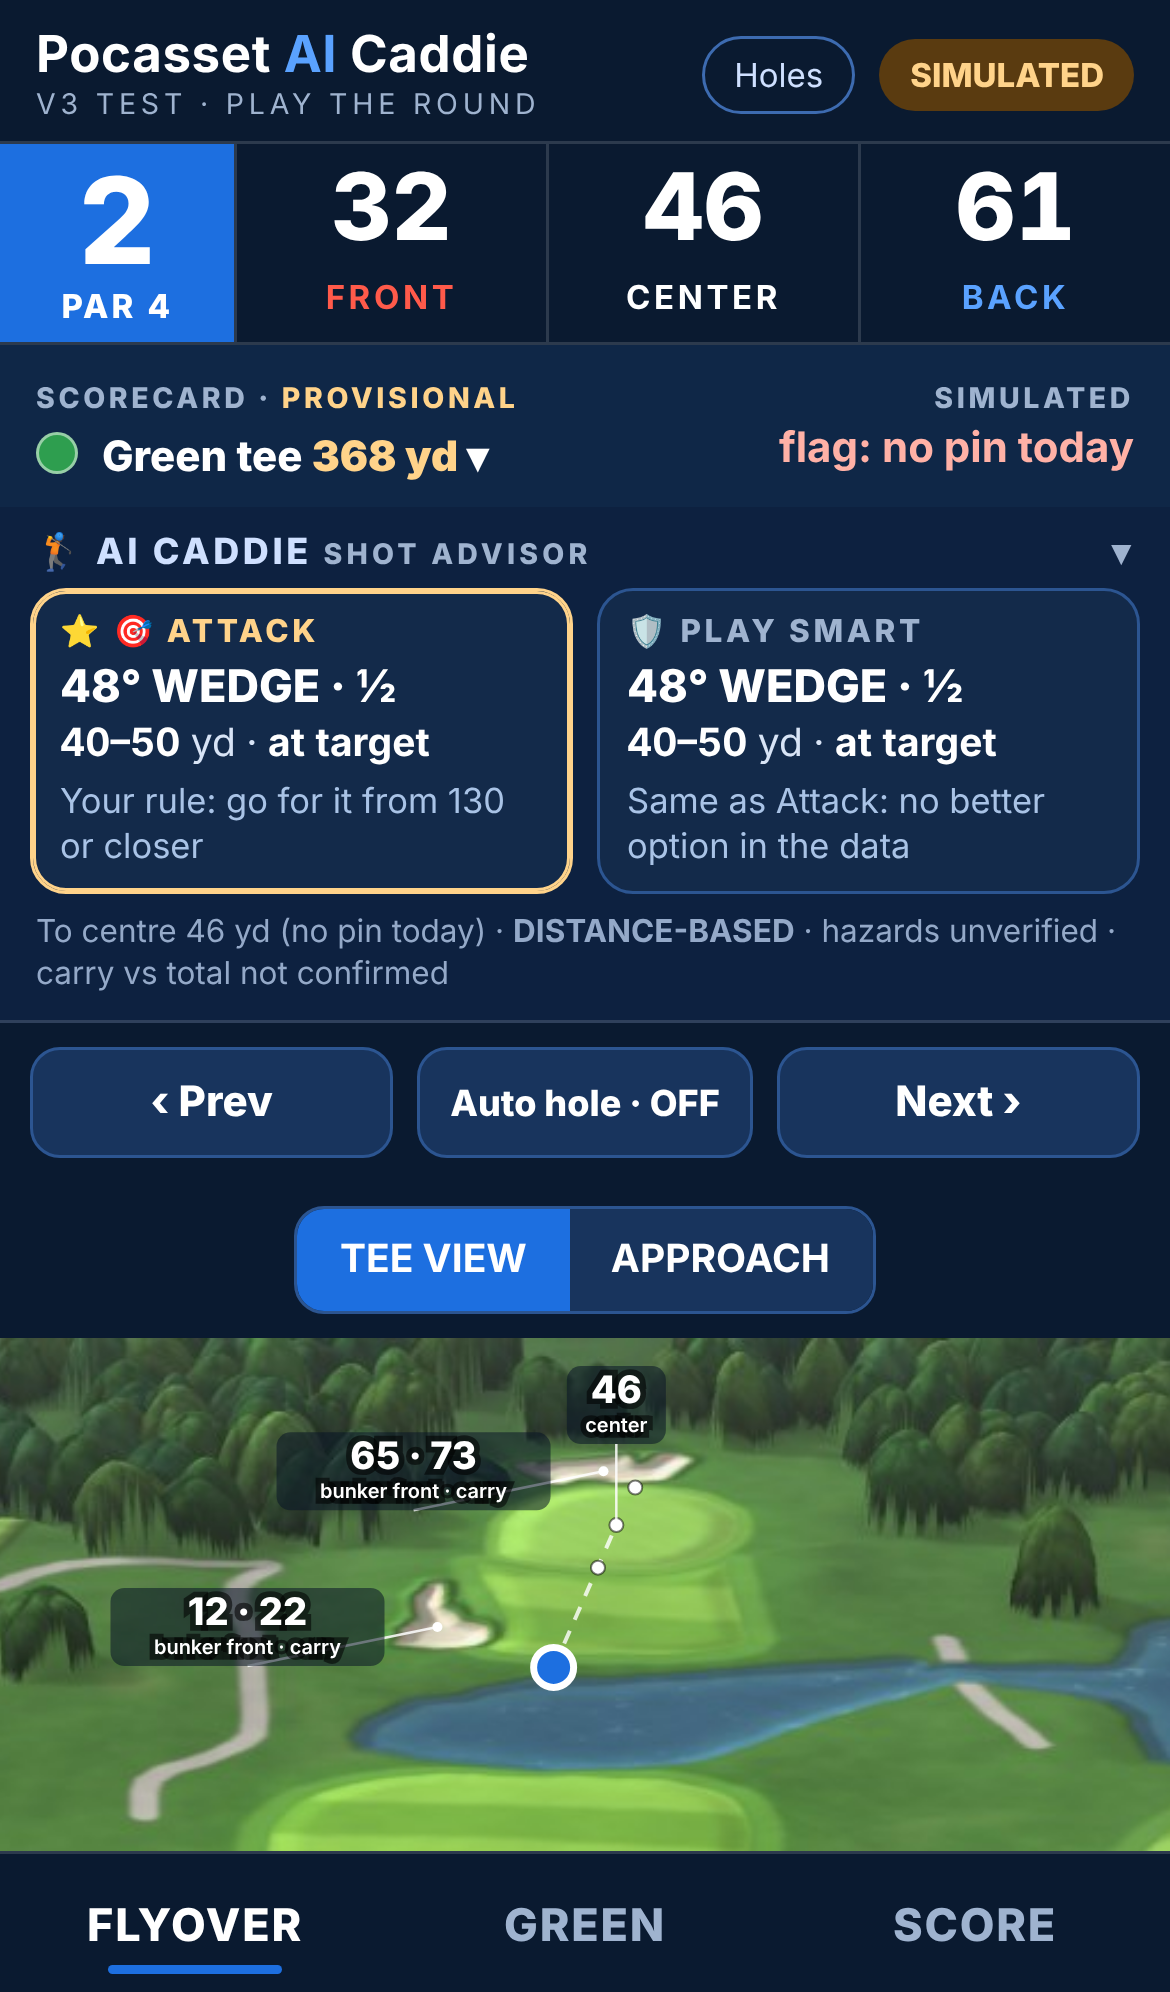
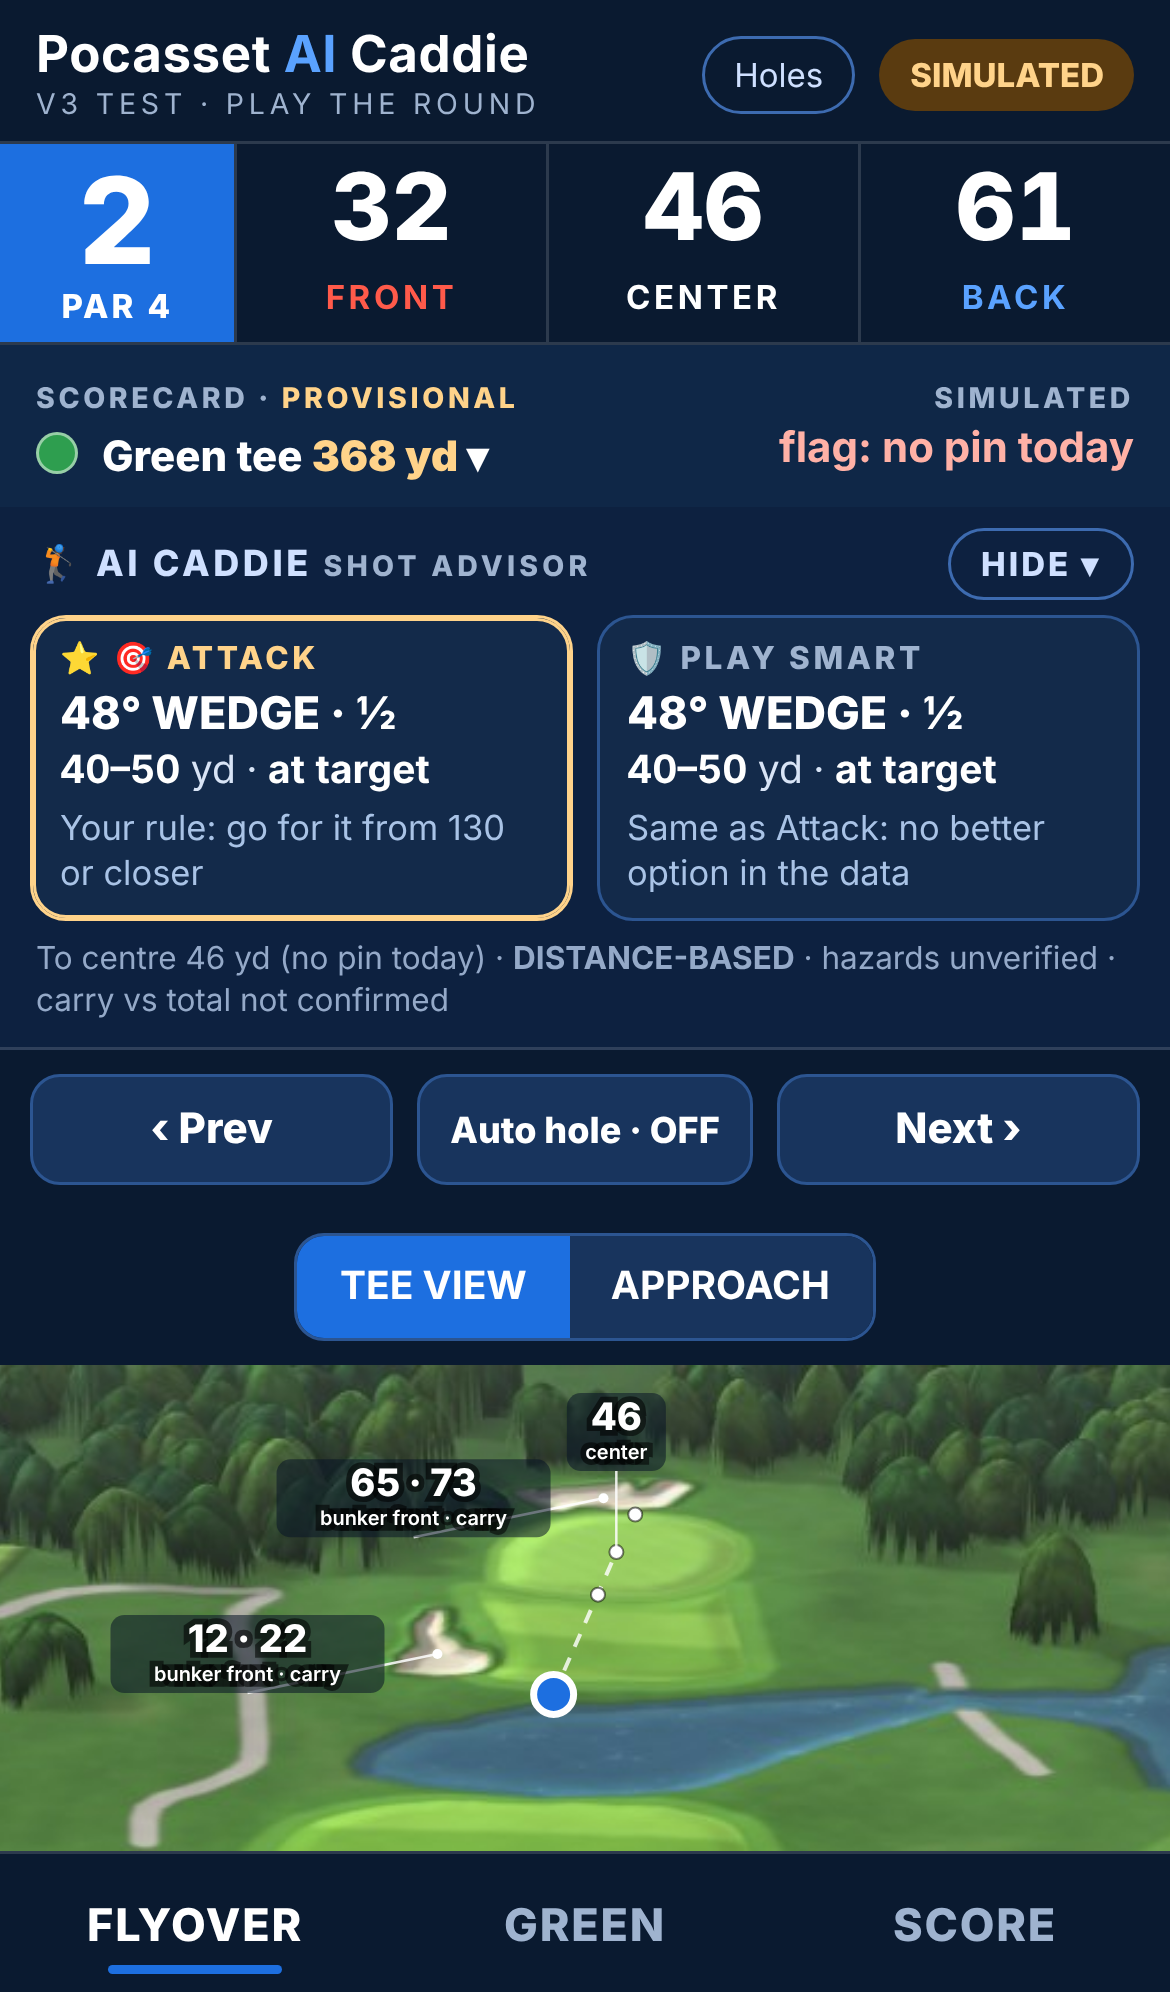
v5.5.2-advisor-show-button: suggestion hidden until SHOW is tapped (Hole 2)
Claude-Session: https://claude.ai/code/session_01NaLen3KhHSLyXNsF12QrQB

Changed region(s): [[0.0, 0.249, 1.0, 0.9337]]

diff --git a/prototype/play/index.html b/prototype/play/index.html
@@ -112,7 +112,7 @@ main{min-height:calc(100svh - 260px)}
 /* AI Caddie Shot Advisor (v5.5.0, Hole 2 test) */
 .adv{background:#0d2140;border-bottom:1px solid var(--line);padding:0 10px 7px}
 .advh{display:flex;align-items:center;gap:8px;width:100%;background:none;border:0;padding:7px 2px 5px;text-align:left;font-size:12px;font-weight:800;letter-spacing:1.2px;color:#cfe0ff}
-.advh small{font-size:9.5px;color:#9fb3cf;letter-spacing:1.4px}.advh .sum{flex:1;text-align:right;font-size:12px;letter-spacing:.4px;color:#fff;white-space:nowrap;overflow:hidden;text-overflow:ellipsis}.advh .chev{color:#9fb3cf}
+.advh small{font-size:9.5px;color:#9fb3cf;letter-spacing:1.4px}.advh .sum{flex:1;text-align:right;font-size:12px;letter-spacing:.4px;color:#fff;white-space:nowrap;overflow:hidden;text-overflow:ellipsis}.advh .chev{color:#cfe0ff;font-size:11px;letter-spacing:1px;border:1px solid #3d6bb0;border-radius:999px;padding:4px 10px;white-space:nowrap}
 .advgrid{display:grid;grid-template-columns:1fr 1fr;gap:8px}
 .advc{background:#132a4a;border:1px solid #2c5591;border-radius:12px;padding:7px 9px;min-width:0}
 .advc.star{border-color:var(--amber);box-shadow:inset 0 0 0 1px var(--amber)}
@@ -389,7 +389,7 @@ function renderFly(){
 /* ---------- AI Caddie Shot Advisor (v5.5.0; holes in ADVISOR_CONFIG.holes only). Display only: reads the header's
    V2.3.1 yardage and the existing hazard calculation; changes nothing they compute. Target = today's pin when it is
    typed today or from a CURRENT pin sheet and placed without error; otherwise the green centre. */
-var ADV=store.get('advisor')||{};if(typeof ADV.on!=='boolean')ADV.on=true;if(typeof ADV.open!=='boolean')ADV.open=true;
+var ADV=store.get('advisor')||{};if(typeof ADV.on!=='boolean')ADV.on=true;if(ADV.v!==2){ADV.open=false;ADV.v=2}   // v5.5.2: suggestion hidden until the golfer taps SHOW (owner)
 function saveAdv(){store.set('advisor',ADV)}
 function advCard(c,k,star){var lbl=k==='attack'?'🎯 ATTACK':'🛡 PLAY SMART',rem=c.past?'~'+c.remaining+' past':c.remaining<3?'at target':'~'+c.remaining+' left';
   return '<div class="advc'+(star?' star':'')+'" data-k="'+k+'"><div class="advk">'+(star?'⭐ ':'')+lbl+'</div><div class="advclub">'+esc(c.club.toUpperCase())+' · '+c.swingText+'</div>'+
@@ -397,17 +397,15 @@ function advCard(c,k,star){var lbl=k==='attack'?'🎯 ATTACK':'🛡 PLAY SMAR
 function renderAdvisor(n,hd,r){
   var el=$('adv'),cfg=window.ADVISOR_CONFIG,show=ADV.on&&S.tab==='fly'&&!!cfg&&cfg.holes.indexOf(n)>=0;
   el.hidden=!show;S.adv=null;if(!show)return;
-  $('advToggle').setAttribute('aria-expanded',String(ADV.open));$('advChev').textContent=ADV.open?'▾':'▸';$('advBody').hidden=!ADV.open;
-  if(!hd||!S.me||!r||!r.onCourse){$('advSum').textContent='';$('advBody').innerHTML='<p class="advmsg">'+(S.offCourse?'Away from the course: no recommendation.':'Start GPS, or use SIMULATE / move me, for a recommendation.')+'</p>';return}
+  $('advToggle').setAttribute('aria-expanded',String(ADV.open));$('advChev').textContent=ADV.open?'HIDE ▾':'SHOW ▸';$('advBody').hidden=!ADV.open;$('advSum').textContent='';
+  if(!hd||!S.me||!r||!r.onCourse){$('advBody').innerHTML='<p class="advmsg">'+(S.offCourse?'Away from the course: no recommendation.':'Start GPS, or use SIMULATE / move me, for a recommendation.')+'</p>';return}
   var pl=pins.placed(n),st=pl.src==='sheet'?sheetStatus():null,pinOK=(pl.src==='today'||(pl.src==='sheet'&&st==='current'))&&!!pl.ll&&!(pl.res&&pl.res.err)&&r.flag!=null;
   var why=pinOK?'':pl.src==='sheet'&&st!=='current'?' (pin sheet '+(st==='expired'?'expired':'future-dated')+')':' (no pin today)';
   var me=meUV(hd),tuv=pinOK?hd.hole.frame.toUV(pl.ll[0],pl.ll[1]):hd.hole.centerUV;
   var a=PAdvisor.recommend({hole:hd.hole,me:me,targetUV:tuv,targetYd:pinOK?r.flag:r.center,targetKind:pinOK?'flag':'centre',centreYd:r.center,par:PARS[n-1],
     teeUVs:hd.tees.map(function(t){return t.uv}),cfg:cfg,posText:PFly.posText,strategy:(cfg.hole_strategy||{})[n]||null});
   S.adv=a;var tgt=pinOK?'To flag '+r.flag+' yd':'To centre '+r.center+' yd'+why;
-  if(a.mode==='green'){$('advSum').textContent='';$('advBody').innerHTML='<p class="advmsg">'+esc(a.message)+' '+esc(tgt)+'.</p>';return}
-  var sp=a.star==='smart'?a.smart:a.attack;
-  $('advSum').textContent=ADV.open?'':'⭐ '+(a.star==='smart'?'PLAY SMART':'ATTACK')+' · '+sp.club.toUpperCase()+' '+sp.swingText;
+  if(a.mode==='green'){$('advBody').innerHTML='<p class="advmsg">'+esc(a.message)+' '+esc(tgt)+'.</p>';return}
   $('advBody').innerHTML='<div class="advgrid">'+advCard(a.attack,'attack',a.star==='attack')+advCard(a.smart,'smart',a.star==='smart')+'</div>'+
     '<p class="advfine">'+esc(tgt)+' · <b>'+(a.basis==='hazard-checked'?'HAZARD-CHECKED':'DISTANCE-BASED')+'</b>'+(a.hazardCount&&!a.hazardsVerified?' · hazards unverified':'')+' · carry vs total not confirmed</p>';
 }

diff --git a/prototype/play_src/index.html b/prototype/play_src/index.html
@@ -112,7 +112,7 @@ main{min-height:calc(100svh - 260px)}
 /* AI Caddie Shot Advisor (v5.5.0, Hole 2 test) */
 .adv{background:#0d2140;border-bottom:1px solid var(--line);padding:0 10px 7px}
 .advh{display:flex;align-items:center;gap:8px;width:100%;background:none;border:0;padding:7px 2px 5px;text-align:left;font-size:12px;font-weight:800;letter-spacing:1.2px;color:#cfe0ff}
-.advh small{font-size:9.5px;color:#9fb3cf;letter-spacing:1.4px}.advh .sum{flex:1;text-align:right;font-size:12px;letter-spacing:.4px;color:#fff;white-space:nowrap;overflow:hidden;text-overflow:ellipsis}.advh .chev{color:#9fb3cf}
+.advh small{font-size:9.5px;color:#9fb3cf;letter-spacing:1.4px}.advh .sum{flex:1;text-align:right;font-size:12px;letter-spacing:.4px;color:#fff;white-space:nowrap;overflow:hidden;text-overflow:ellipsis}.advh .chev{color:#cfe0ff;font-size:11px;letter-spacing:1px;border:1px solid #3d6bb0;border-radius:999px;padding:4px 10px;white-space:nowrap}
 .advgrid{display:grid;grid-template-columns:1fr 1fr;gap:8px}
 .advc{background:#132a4a;border:1px solid #2c5591;border-radius:12px;padding:7px 9px;min-width:0}
 .advc.star{border-color:var(--amber);box-shadow:inset 0 0 0 1px var(--amber)}
@@ -389,7 +389,7 @@ function renderFly(){
 /* ---------- AI Caddie Shot Advisor (v5.5.0; holes in ADVISOR_CONFIG.holes only). Display only: reads the header's
    V2.3.1 yardage and the existing hazard calculation; changes nothing they compute. Target = today's pin when it is
    typed today or from a CURRENT pin sheet and placed without error; otherwise the green centre. */
-var ADV=store.get('advisor')||{};if(typeof ADV.on!=='boolean')ADV.on=true;if(typeof ADV.open!=='boolean')ADV.open=true;
+var ADV=store.get('advisor')||{};if(typeof ADV.on!=='boolean')ADV.on=true;if(ADV.v!==2){ADV.open=false;ADV.v=2}   // v5.5.2: suggestion hidden until the golfer taps SHOW (owner)
 function saveAdv(){store.set('advisor',ADV)}
 function advCard(c,k,star){var lbl=k==='attack'?'🎯 ATTACK':'🛡 PLAY SMART',rem=c.past?'~'+c.remaining+' past':c.remaining<3?'at target':'~'+c.remaining+' left';
   return '<div class="advc'+(star?' star':'')+'" data-k="'+k+'"><div class="advk">'+(star?'⭐ ':'')+lbl+'</div><div class="advclub">'+esc(c.club.toUpperCase())+' · '+c.swingText+'</div>'+
@@ -397,17 +397,15 @@ function advCard(c,k,star){var lbl=k==='attack'?'🎯 ATTACK':'🛡 PLAY SMAR
 function renderAdvisor(n,hd,r){
   var el=$('adv'),cfg=window.ADVISOR_CONFIG,show=ADV.on&&S.tab==='fly'&&!!cfg&&cfg.holes.indexOf(n)>=0;
   el.hidden=!show;S.adv=null;if(!show)return;
-  $('advToggle').setAttribute('aria-expanded',String(ADV.open));$('advChev').textContent=ADV.open?'▾':'▸';$('advBody').hidden=!ADV.open;
-  if(!hd||!S.me||!r||!r.onCourse){$('advSum').textContent='';$('advBody').innerHTML='<p class="advmsg">'+(S.offCourse?'Away from the course: no recommendation.':'Start GPS, or use SIMULATE / move me, for a recommendation.')+'</p>';return}
+  $('advToggle').setAttribute('aria-expanded',String(ADV.open));$('advChev').textContent=ADV.open?'HIDE ▾':'SHOW ▸';$('advBody').hidden=!ADV.open;$('advSum').textContent='';
+  if(!hd||!S.me||!r||!r.onCourse){$('advBody').innerHTML='<p class="advmsg">'+(S.offCourse?'Away from the course: no recommendation.':'Start GPS, or use SIMULATE / move me, for a recommendation.')+'</p>';return}
   var pl=pins.placed(n),st=pl.src==='sheet'?sheetStatus():null,pinOK=(pl.src==='today'||(pl.src==='sheet'&&st==='current'))&&!!pl.ll&&!(pl.res&&pl.res.err)&&r.flag!=null;
   var why=pinOK?'':pl.src==='sheet'&&st!=='current'?' (pin sheet '+(st==='expired'?'expired':'future-dated')+')':' (no pin today)';
   var me=meUV(hd),tuv=pinOK?hd.hole.frame.toUV(pl.ll[0],pl.ll[1]):hd.hole.centerUV;
   var a=PAdvisor.recommend({hole:hd.hole,me:me,targetUV:tuv,targetYd:pinOK?r.flag:r.center,targetKind:pinOK?'flag':'centre',centreYd:r.center,par:PARS[n-1],
     teeUVs:hd.tees.map(function(t){return t.uv}),cfg:cfg,posText:PFly.posText,strategy:(cfg.hole_strategy||{})[n]||null});
   S.adv=a;var tgt=pinOK?'To flag '+r.flag+' yd':'To centre '+r.center+' yd'+why;
-  if(a.mode==='green'){$('advSum').textContent='';$('advBody').innerHTML='<p class="advmsg">'+esc(a.message)+' '+esc(tgt)+'.</p>';return}
-  var sp=a.star==='smart'?a.smart:a.attack;
-  $('advSum').textContent=ADV.open?'':'⭐ '+(a.star==='smart'?'PLAY SMART':'ATTACK')+' · '+sp.club.toUpperCase()+' '+sp.swingText;
+  if(a.mode==='green'){$('advBody').innerHTML='<p class="advmsg">'+esc(a.message)+' '+esc(tgt)+'.</p>';return}
   $('advBody').innerHTML='<div class="advgrid">'+advCard(a.attack,'attack',a.star==='attack')+advCard(a.smart,'smart',a.star==='smart')+'</div>'+
     '<p class="advfine">'+esc(tgt)+' · <b>'+(a.basis==='hazard-checked'?'HAZARD-CHECKED':'DISTANCE-BASED')+'</b>'+(a.hazardCount&&!a.hazardsVerified?' · hazards unverified':'')+' · carry vs total not confirmed</p>';
 }

diff --git a/tests/test_advisor.js b/tests/test_advisor.js
@@ -20,7 +20,10 @@ const moveMe=(pg,uv)=>pg.evaluate(p=>{const P=__play,S=P.S,hd=P.HD[2];document.g
 (async()=>{
  const b=await chromium.launch();
  const pg=await open(b);
- const g=await readAdv(pg);ok('shown on Hole 2 before a position, with a prompt',g.shown&&/Start GPS/.test(g.msg),g.msg);
+ const g=await readAdv(pg);ok('Hole 2 shows only the AI CADDIE · SHOW button at the start (suggestion hidden)',g.shown&&await pg.locator('#advBody').isHidden()&&(await pg.textContent('#advChev'))==='SHOW ▸');
+ await preset(pg,'Green tee');ok('still hidden after a position is set; no club on screen',await pg.locator('#advBody').isHidden()&&!/DRIVER|HYBRID|IRON|WEDGE/.test(await pg.locator('#adv').innerText()),await pg.locator('#adv').innerText());
+ await pg.click('#advToggle');ok('SHOW reveals the two cards',await pg.locator('.advc[data-k="attack"]').isVisible()&&(await pg.textContent('#advChev'))==='HIDE ▾');
+ await pg.reload();await pg.waitForTimeout(600);await pg.evaluate(()=>__play.goHole(2,true));await pg.waitForTimeout(500);ok('stays shown after reload once turned on',await pg.locator('#advBody').isVisible());
  const U=await pg.evaluate(()=>{const h=__play.HD[2].hole,c=h.centerUV,a=h.alongFromGreen(45);return {w140:h.alongFromGreen(140),w124:h.alongFromGreen(124),w45:a,beyond:[c[0]+(c[0]-h.alongFromGreen(30)[0]),c[1]+(c[1]-h.alongFromGreen(30)[1])]}});
  const RULE=[];const CASES=[
   ['Tee box (Green tee preset)',()=>preset(pg,'Green tee'),{a:'DRIVER · FULL',s:'5-HYBRID · FULL',star:'smart',sNote:/in range for shot 2/}],
@@ -52,7 +55,7 @@ const moveMe=(pg,uv)=>pg.evaluate(p=>{const P=__play,S=P.S,hd=P.HD[2];document.g
  // dogleg-free sanity: remaining after a full shot = header centre − expected distance (±6 yd) at 250 yd out
  await preset(pg,'250 yd out');let r=await readAdv(pg);ok('rule follows the header centre: ⭐ Play Smart beyond 130, Attack at 130 or closer (all positions)',RULE.every(x=>x.c>130?x.star==='smart':x.star==='attack'),RULE);const rem=+r.attack.n.match(/~(\d+) left/)[1];ok('remaining ≈ centre − mid distance',Math.abs((+r.center-165)-rem)<=6,{center:r.center,rem});
  // collapse / expand, and summary line
- await pg.click('#advToggle');r=await readAdv(pg);const sum=await pg.textContent('#advSum');ok('collapses to one line with the ⭐ pick',await pg.locator('#advBody').isHidden()&&/⭐ PLAY SMART · 8-IRON/.test(sum),sum);
+ await pg.click('#advToggle');r=await readAdv(pg);ok('HIDE collapses it again, no club shown',await pg.locator('#advBody').isHidden()&&!/IRON|HYBRID|WEDGE/.test(await pg.locator('#adv').innerText()));
  await pg.click('#advToggle');ok('expands again',await pg.locator('#advBody').isVisible());
  // tabs and other holes
  await pg.evaluate(()=>__play.setTab('green'));ok('hidden on GREEN tab',(await readAdv(pg)).shown===false);

diff --git a/docs/CHANGELOG.md b/docs/CHANGELOG.md
@@ -2,6 +2,10 @@
 
 All changes to the V3 project, newest first. V3 is separate from production: nothing here changes the live app (V2.3.1 at scottamcintire.github.io/pocasset_caddie), its repository, the archived V2.2.1, or the approved greens. Git tags mark preserved versions.
 
+## v5.5.2-advisor-show-button: club suggestion hidden until SHOW is tapped (test release, 20 Nov 2026)
+- Owner: the AI Caddie strip starts as one line with a SHOW button; no club is on screen until it is tapped. HIDE folds it away; the choice is remembered on the phone. Phones that used v5.5.0/v5.5.1 start hidden once.
+- Still Hole 2 only (all-hole rollout on hold). Tests: test_advisor 92/92, test_play 38/38, test_minimal 82/82, test_zoom 202/202.
+
 ## v5.5.1-advisor-owner-rules: Shot Advisor follows the owner's par-4 and Hole 2 rules (test release, 20 Nov 2026)
 - Per-hole strategy in app/advisor_config.js `hole_strategy`. Hole 2 (owner): go for the green from 130 yd or closer to the centre (⭐ Attack); farther back, ⭐ Play Smart = lay up short of the trouble in front (pond / front bunkers). Hole 6 "always lay up" recorded, not active (Hole 6 not enabled).
 - Par 4/5 tee (owner): Driver earns the ⭐ only if it is what brings the green into range for shot 2 (within the longest fairway club, and inside the hole's go-for-it distance if set); otherwise ⭐ 5-hybrid. Hole 2: Green/Blue/Gold → 5-hybrid; Bronze (candidate tee) → Driver (leaves ~120).
